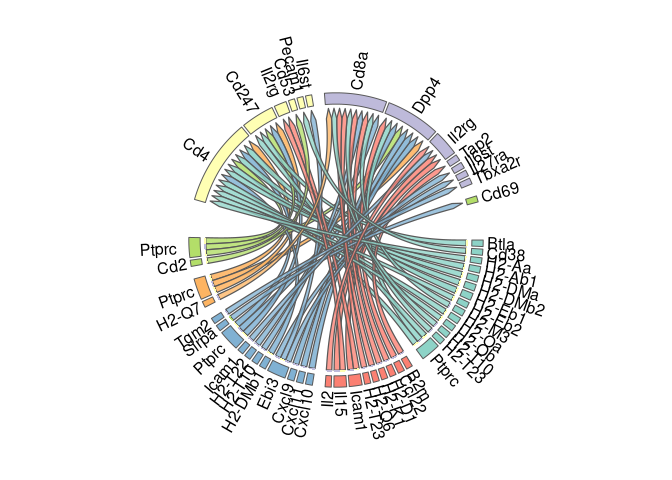
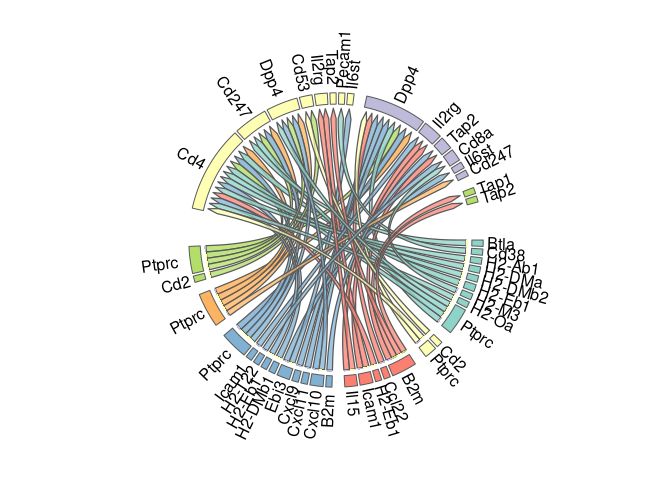
update prioritization weights

Changed region(s): [[0.1875, 0.0625, 0.8125, 0.9375], [0.25, 0.2812, 0.3125, 0.3438]]

diff --git a/vignettes/seurat_steps_prioritization.md b/vignettes/seurat_steps_prioritization.md
@@ -224,12 +224,12 @@ prior_table %>% head
 ## # A tibble: 6 × 52
 ##   sender receiver ligand receptor lfc_ligand lfc_receptor ligand_receptor_lfc_avg p_val_ligand p_adj_ligand p_val_receptor p_adj_receptor pct_expressed_sender pct_expressed_receiver avg_ligand
 ##   <chr>  <chr>    <chr>  <chr>         <dbl>        <dbl>                   <dbl>        <dbl>        <dbl>          <dbl>          <dbl>                <dbl>                  <dbl>      <dbl>
-## 1 NK     CD8 T    Ptprc  Dpp4          0.642        0.299                   0.471    2.18e-  7    2.96e-  3       0.000663              1                0.894                  0.148      16.6 
-## 2 Mono   CD8 T    Ptprc  Dpp4          0.474        0.299                   0.386    3.52e-  5    4.77e-  1       0.000663              1                0.867                  0.148      14.9 
-## 3 Mono   CD8 T    Cxcl10 Dpp4          4.86         0.299                   2.58     2.53e- 79    3.43e- 75       0.000663              1                0.867                  0.148      54.8 
-## 4 Mono   CD8 T    Cxcl9  Dpp4          6.68         0.299                   3.49     3.83e-124    5.19e-120       0.000663              1                0.547                  0.148      23.8 
-## 5 Treg   CD8 T    Ptprc  Dpp4          0.307        0.299                   0.303    1.44e-  2    1   e+  0       0.000663              1                0.685                  0.148      13.2 
-## 6 Mono   CD8 T    Cxcl11 Dpp4          6.60         0.299                   3.45     9.28e-121    1.26e-116       0.000663              1                0.307                  0.148       4.37
+## 1 NK     CD8 T    Ptprc  Dpp4          0.642        0.299                   0.471     2.18e- 7     2.96e- 3       0.000663              1                0.894                  0.148     16.6  
+## 2 Mono   CD8 T    Ptprc  Dpp4          0.474        0.299                   0.386     3.52e- 5     4.77e- 1       0.000663              1                0.867                  0.148     14.9  
+## 3 Treg   CD8 T    Ptprc  Dpp4          0.307        0.299                   0.303     1.44e- 2     1   e+ 0       0.000663              1                0.685                  0.148     13.2  
+## 4 Mono   CD8 T    Cxcl10 Dpp4          4.86         0.299                   2.58      2.53e-79     3.43e-75       0.000663              1                0.867                  0.148     54.8  
+## 5 B      CD8 T    Ptprc  Dpp4          0.201        0.299                   0.250     2.08e- 2     1   e+ 0       0.000663              1                0.669                  0.148     12.3  
+## 6 Mono   CD8 T    Ebi3   Il6st         4.00         0.141                   2.07      9.77e-49     1.32e-44       0.0147                1                0.147                  0.09       0.546
 ## # ℹ 38 more variables: avg_receptor <dbl>, ligand_receptor_prod <dbl>, lfc_pval_ligand <dbl>, p_val_adapted_ligand <dbl>, scaled_lfc_ligand <dbl>, scaled_p_val_ligand <dbl>,
 ## #   scaled_lfc_pval_ligand <dbl>, scaled_p_val_adapted_ligand <dbl>, activity <dbl>, rank <dbl>, activity_zscore <dbl>, scaled_activity <dbl>, lfc_pval_receptor <dbl>,
 ## #   p_val_adapted_receptor <dbl>, scaled_lfc_receptor <dbl>, scaled_p_val_receptor <dbl>, scaled_lfc_pval_receptor <dbl>, scaled_p_val_adapted_receptor <dbl>, scaled_avg_exprs_ligand <dbl>,
@@ -256,14 +256,14 @@ prior_table %>% select(c('sender', 'receiver', 'ligand', 'receptor', 'scaled_p_v
 ##    <chr>  <chr>    <chr>  <chr>                          <dbl>                     <dbl>                  <dbl>                  <dbl>                  <dbl>                  <dbl>           <dbl>
 ##  1 NK     CD8 T    Ptprc  Dpp4                           0.871                     0.846                  1.00                   1.00                   0.844                  0.833           0.660
 ##  2 Mono   CD8 T    Ptprc  Dpp4                           0.841                     0.846                  0.867                  1.00                   0.844                  0.833           0.660
-##  3 Mono   CD8 T    Cxcl10 Dpp4                           0.958                     0.846                  1.00                   1.00                   0.926                  0.833           0.309
-##  4 Mono   CD8 T    Cxcl9  Dpp4                           0.974                     0.846                  1.00                   1.00                   0.779                  0.833           0.263
-##  5 Treg   CD8 T    Ptprc  Dpp4                           0.754                     0.846                  0.741                  1.00                   0.844                  0.833           0.660
-##  6 Mono   CD8 T    Cxcl11 Dpp4                           0.972                     0.846                  1.00                   1.00                   0.721                  0.833           0.273
-##  7 B      CD8 T    Ptprc  Dpp4                           0.747                     0.846                  0.666                  1.00                   0.844                  0.833           0.660
-##  8 DC     CD8 T    Ccl22  Dpp4                           0.997                     0.846                  1.00                   1.00                   0.545                  0.833           0.361
-##  9 DC     CD8 T    Icam1  Il2rg                          0.878                     0.723                  1.00                   0.995                  0.713                  0.985           0.273
-## 10 DC     CD8 T    Il15   Il2rg                          0.964                     0.723                  1.00                   0.995                  0.598                  0.985           0.214
+##  3 Treg   CD8 T    Ptprc  Dpp4                           0.754                     0.846                  0.741                  1.00                   0.844                  0.833           0.660
+##  4 Mono   CD8 T    Cxcl10 Dpp4                           0.958                     0.846                  1.00                   1.00                   0.926                  0.833           0.309
+##  5 B      CD8 T    Ptprc  Dpp4                           0.747                     0.846                  0.666                  1.00                   0.844                  0.833           0.660
+##  6 Mono   CD8 T    Ebi3   Il6st                          0.937                     0.692                  1.00                   0.635                  0.680                  0.515           1.00 
+##  7 Mono   CD8 T    Cxcl9  Dpp4                           0.974                     0.846                  1.00                   1.00                   0.779                  0.833           0.263
+##  8 DC     CD8 T    Icam1  Il2rg                          0.878                     0.723                  1.00                   0.995                  0.713                  0.985           0.273
+##  9 DC     CD8 T    B2m    Tap2                           0.862                     0.631                  1.00                   0.781                  1                      0.864           0.254
+## 10 Mono   CD8 T    Cxcl11 Dpp4                           0.972                     0.846                  1.00                   1.00                   0.721                  0.833           0.273
 ## # ℹ 1,202 more rows
 ## # ℹ abbreviated names: ¹scaled_p_val_adapted_receptor, ²scaled_avg_exprs_ligand, ³scaled_avg_exprs_receptor, ⁴scaled_p_val_adapted_ligand_group, ⁵scaled_p_val_adapted_receptor_group
 ```
@@ -332,12 +332,12 @@ prior_table %>% head
 ## # A tibble: 6 × 52
 ##   sender receiver ligand receptor lfc_ligand lfc_receptor ligand_receptor_lfc_avg p_val_ligand p_adj_ligand p_val_receptor p_adj_receptor pct_expressed_sender pct_expressed_receiver avg_ligand
 ##   <chr>  <chr>    <chr>  <chr>         <dbl>        <dbl>                   <dbl>        <dbl>        <dbl>          <dbl>          <dbl>                <dbl>                  <dbl>      <dbl>
-## 1 NK     CD8 T    Ptprc  Dpp4          0.642        0.299                   0.471    2.18e-  7    2.96e-  3       0.000663              1                0.894                  0.148      16.6 
-## 2 Mono   CD8 T    Ptprc  Dpp4          0.474        0.299                   0.386    3.52e-  5    4.77e-  1       0.000663              1                0.867                  0.148      14.9 
-## 3 Mono   CD8 T    Cxcl10 Dpp4          4.86         0.299                   2.58     2.53e- 79    3.43e- 75       0.000663              1                0.867                  0.148      54.8 
-## 4 Mono   CD8 T    Cxcl9  Dpp4          6.68         0.299                   3.49     3.83e-124    5.19e-120       0.000663              1                0.547                  0.148      23.8 
-## 5 Treg   CD8 T    Ptprc  Dpp4          0.307        0.299                   0.303    1.44e-  2    1   e+  0       0.000663              1                0.685                  0.148      13.2 
-## 6 Mono   CD8 T    Cxcl11 Dpp4          6.60         0.299                   3.45     9.28e-121    1.26e-116       0.000663              1                0.307                  0.148       4.37
+## 1 NK     CD8 T    Ptprc  Dpp4          0.642        0.299                   0.471     2.18e- 7     2.96e- 3       0.000663              1                0.894                  0.148     16.6  
+## 2 Mono   CD8 T    Ptprc  Dpp4          0.474        0.299                   0.386     3.52e- 5     4.77e- 1       0.000663              1                0.867                  0.148     14.9  
+## 3 Treg   CD8 T    Ptprc  Dpp4          0.307        0.299                   0.303     1.44e- 2     1   e+ 0       0.000663              1                0.685                  0.148     13.2  
+## 4 Mono   CD8 T    Cxcl10 Dpp4          4.86         0.299                   2.58      2.53e-79     3.43e-75       0.000663              1                0.867                  0.148     54.8  
+## 5 B      CD8 T    Ptprc  Dpp4          0.201        0.299                   0.250     2.08e- 2     1   e+ 0       0.000663              1                0.669                  0.148     12.3  
+## 6 Mono   CD8 T    Ebi3   Il6st         4.00         0.141                   2.07      9.77e-49     1.32e-44       0.0147                1                0.147                  0.09       0.546
 ## # ℹ 38 more variables: avg_receptor <dbl>, ligand_receptor_prod <dbl>, lfc_pval_ligand <dbl>, p_val_adapted_ligand <dbl>, scaled_lfc_ligand <dbl>, scaled_p_val_ligand <dbl>,
 ## #   scaled_lfc_pval_ligand <dbl>, scaled_p_val_adapted_ligand <dbl>, activity <dbl>, rank <dbl>, activity_zscore <dbl>, scaled_activity <dbl>, lfc_pval_receptor <dbl>,
 ## #   p_val_adapted_receptor <dbl>, scaled_lfc_receptor <dbl>, scaled_p_val_receptor <dbl>, scaled_lfc_pval_receptor <dbl>, scaled_p_val_adapted_receptor <dbl>, scaled_avg_exprs_ligand <dbl>,
@@ -444,11 +444,11 @@ head(prior_table_combined)
 ## # A tibble: 6 × 52
 ##   sender receiver ligand receptor lfc_ligand lfc_receptor ligand_receptor_lfc_avg p_val_ligand p_adj_ligand p_val_receptor p_adj_receptor pct_expressed_sender pct_expressed_receiver avg_ligand
 ##   <chr>  <chr>    <chr>  <chr>         <dbl>        <dbl>                   <dbl>        <dbl>        <dbl>          <dbl>          <dbl>                <dbl>                  <dbl>      <dbl>
-## 1 NK     CD4 T    Ptprc  Cd4           0.642        1.71                    1.18   0.000000218      0.00296       2.63e-34       3.56e-30                0.894                  0.226       16.6
-## 2 NK     CD8 T    Ptprc  Dpp4          0.642        0.299                   0.471  0.000000218      0.00296       6.63e- 4       1   e+ 0                0.894                  0.148       16.6
-## 3 B      CD4 T    H2-Eb1 Cd4           5.00         1.71                    3.36   0                0             2.63e-34       3.56e-30                0.93                   0.226       31.0
-## 4 Mono   CD4 T    Ptprc  Cd4           0.474        1.71                    1.09   0.0000352        0.477         2.63e-34       3.56e-30                0.867                  0.226       14.9
-## 5 Mono   CD8 T    Ptprc  Dpp4          0.474        0.299                   0.386  0.0000352        0.477         6.63e- 4       1   e+ 0                0.867                  0.148       14.9
+## 1 NK     CD8 T    Ptprc  Dpp4          0.642        0.299                   0.471  0.000000218      0.00296       6.63e- 4       1   e+ 0                0.894                  0.148       16.6
+## 2 NK     CD4 T    Ptprc  Cd4           0.642        1.71                    1.18   0.000000218      0.00296       2.63e-34       3.56e-30                0.894                  0.226       16.6
+## 3 Mono   CD8 T    Ptprc  Dpp4          0.474        0.299                   0.386  0.0000352        0.477         6.63e- 4       1   e+ 0                0.867                  0.148       14.9
+## 4 B      CD4 T    H2-Eb1 Cd4           5.00         1.71                    3.36   0                0             2.63e-34       3.56e-30                0.93                   0.226       31.0
+## 5 Mono   CD4 T    Ptprc  Cd4           0.474        1.71                    1.09   0.0000352        0.477         2.63e-34       3.56e-30                0.867                  0.226       14.9
 ## 6 NK     CD4 T    Ptprc  Cd247         0.642        0.599                   0.620  0.000000218      0.00296       5.61e- 4       1   e+ 0                0.894                  0.309       16.6
 ## # ℹ 38 more variables: avg_receptor <dbl>, ligand_receptor_prod <dbl>, lfc_pval_ligand <dbl>, p_val_adapted_ligand <dbl>, scaled_lfc_ligand <dbl>, scaled_p_val_ligand <dbl>,
 ## #   scaled_lfc_pval_ligand <dbl>, scaled_p_val_adapted_ligand <dbl>, activity <dbl>, rank <dbl>, activity_zscore <dbl>, scaled_activity <dbl>, lfc_pval_receptor <dbl>,
@@ -556,8 +556,8 @@ sessionInfo()
 ## [1] stats     graphics  grDevices utils     datasets  methods   base     
 ## 
 ## other attached packages:
-##  [1] lubridate_1.9.3    forcats_1.0.0      stringr_1.5.1      dplyr_1.1.4        purrr_1.0.2        readr_2.1.5        tidyr_1.3.1        tibble_3.2.1       ggplot2_3.5.1      tidyverse_2.0.0   
-## [11] Seurat_5.1.0       SeuratObject_5.0.2 sp_2.1-4           nichenetr_2.1.7   
+##  [1] Seurat_5.1.0       SeuratObject_5.0.2 sp_2.1-4           lubridate_1.9.3    forcats_1.0.0      stringr_1.5.1      dplyr_1.1.4        purrr_1.0.2        readr_2.1.5        tidyr_1.3.1       
+## [11] tibble_3.2.1       ggplot2_3.5.1      tidyverse_2.0.0    nichenetr_2.2.0   
 ## 
 ## loaded via a namespace (and not attached):
 ##   [1] RcppAnnoy_0.0.22       splines_4.3.3          later_1.3.2            bitops_1.0-7           polyclip_1.10-6        hardhat_1.3.1          pROC_1.18.5            rpart_4.1.23          
